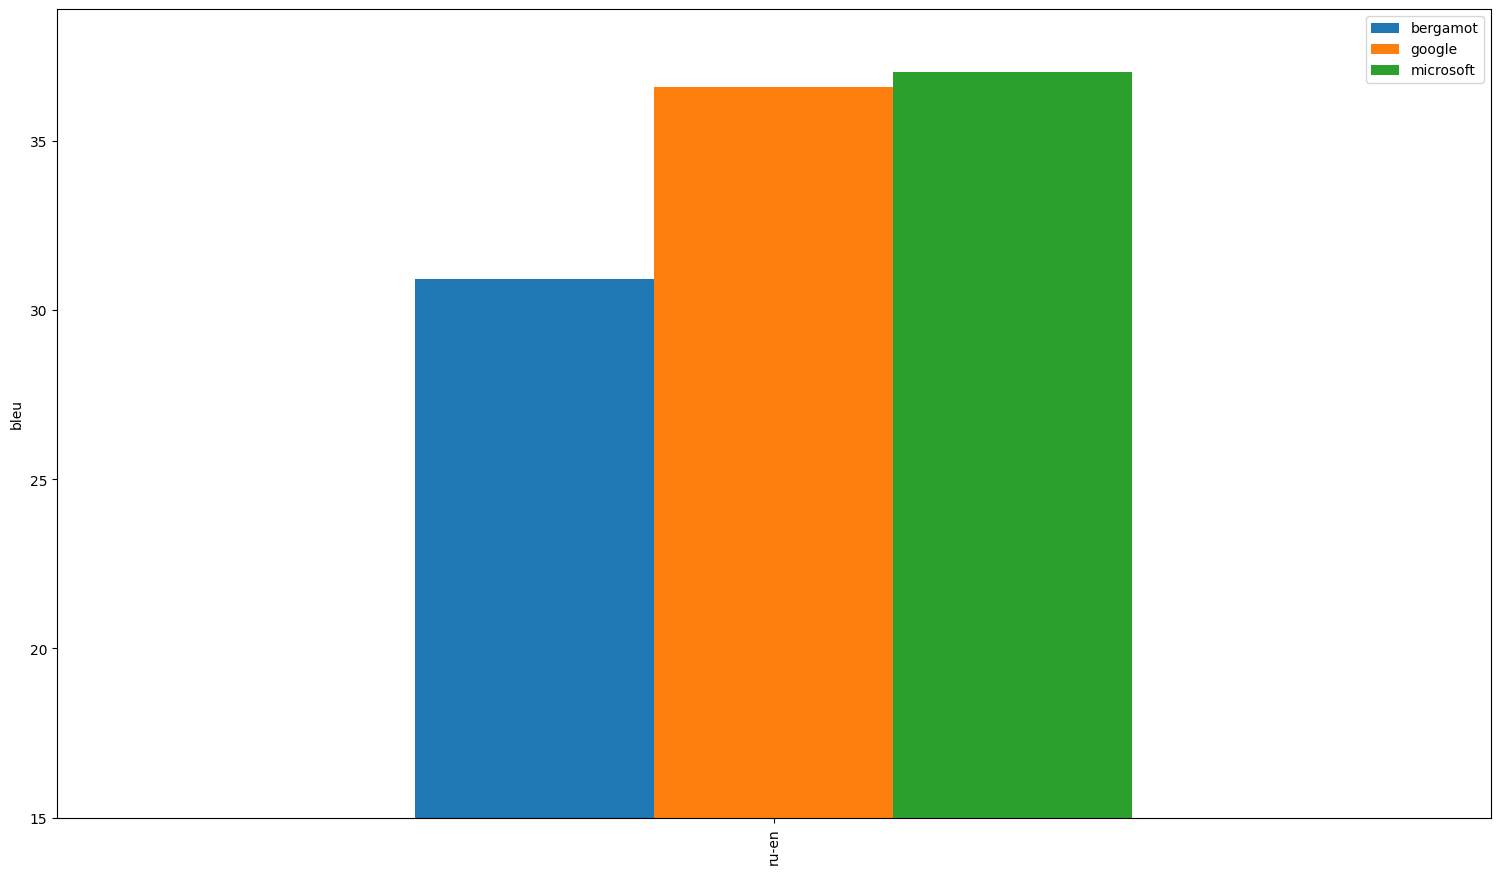
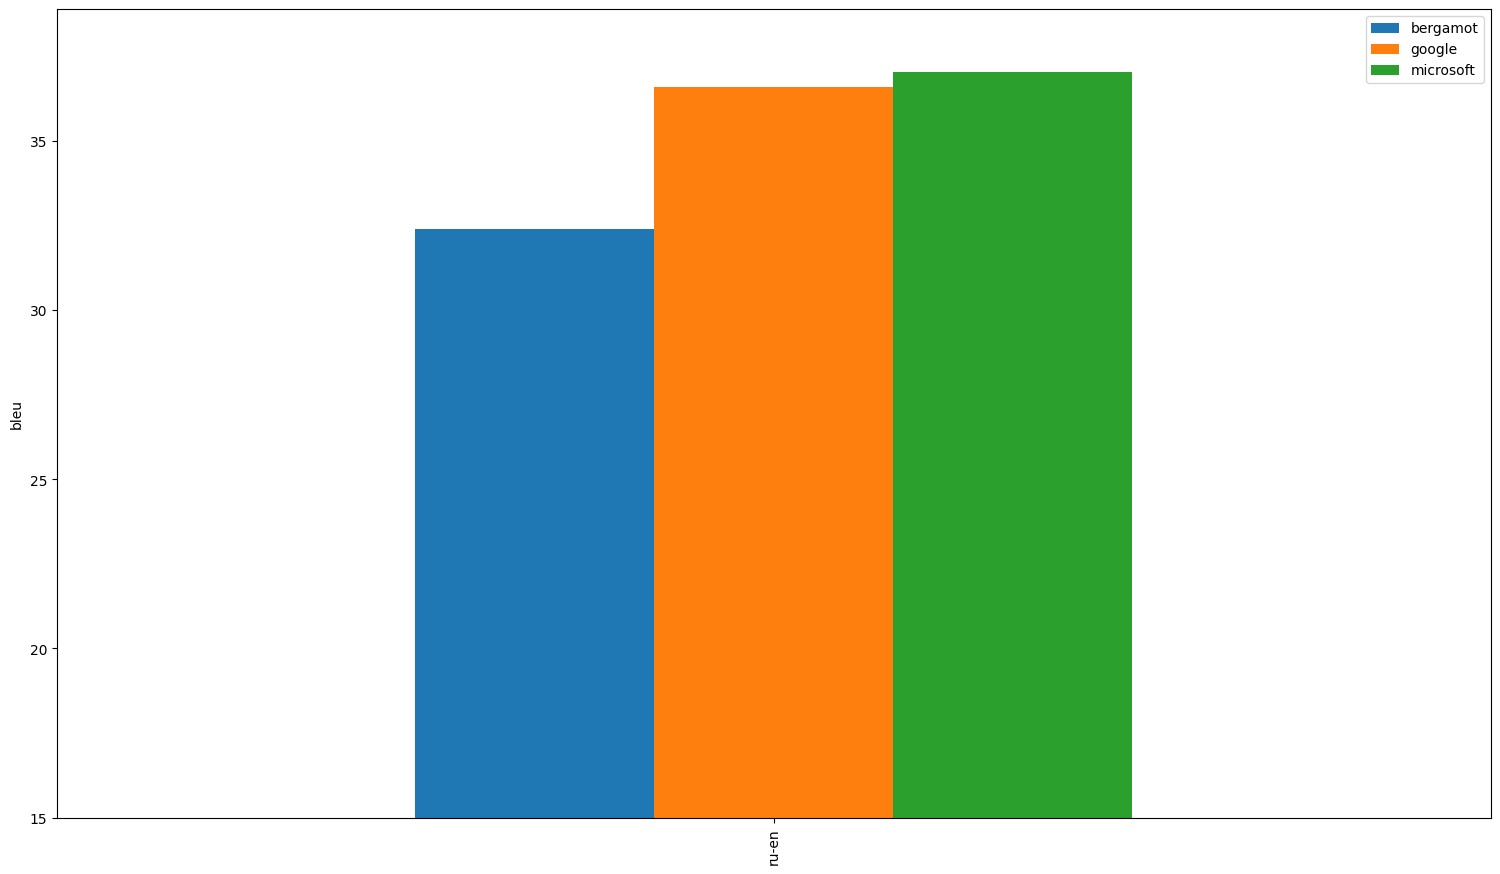
Update evaluation results [skip ci]

Changed region(s): [[0.276, 0.2471, 0.46, 0.3398]]

diff --git a/evaluation/dev/results.md b/evaluation/dev/results.md
@@ -59,9 +59,9 @@ Both absolute and relative differences in BLEU scores between Bergamot and other
 
 | Translator/Dataset | ru-en |
 | --- | --- |
-| bergamot | 30.91 |
-| google | 36.59 (+5.68, +18.37%) |
-| microsoft | 37.03 (+6.12, +19.81%) |
+| bergamot | 32.39 |
+| google | 36.59 (+4.20, +12.97%) |
+| microsoft | 37.03 (+4.64, +14.34%) |
 
 ![Results](img/avg.png)
 
@@ -69,8 +69,8 @@ Both absolute and relative differences in BLEU scores between Bergamot and other
 
 | Translator/Dataset | mtedx_test | wmt19 | wmt17 | wmt14 | wmt15 | wmt16 | wmt13 | wmt18 | wmt20 |
 | --- | --- | --- | --- | --- | --- | --- | --- | --- | --- |
-| bergamot | 23.50 | 37.00 | 33.80 | 34.60 | 30.60 | 29.60 | 26.90 | 28.80 | 33.40 |
-| google | 25.00 (+1.50, +6.38%) | 42.40 (+5.40, +14.59%) | 41.50 (+7.70, +22.78%) | 41.20 (+6.60, +19.08%) | 37.50 (+6.90, +22.55%) | 36.60 (+7.00, +23.65%) | 31.40 (+4.50, +16.73%) | 36.00 (+7.20, +25.00%) | 37.70 (+4.30, +12.87%) |
-| microsoft | 26.10 (+2.60, +11.06%) | 42.60 (+5.60, +15.14%) | 41.60 (+7.80, +23.08%) | 41.70 (+7.10, +20.52%) | 37.80 (+7.20, +23.53%) | 37.60 (+8.00, +27.03%) | 31.20 (+4.30, +15.99%) | 36.90 (+8.10, +28.12%) | 37.80 (+4.40, +13.17%) |
+| bergamot | 23.00 | 37.90 | 35.90 | 35.60 | 32.50 | 32.10 | 28.80 | 31.30 | 34.40 |
+| google | 25.00 (+2.00, +8.70%) | 42.40 (+4.50, +11.87%) | 41.50 (+5.60, +15.60%) | 41.20 (+5.60, +15.73%) | 37.50 (+5.00, +15.38%) | 36.60 (+4.50, +14.02%) | 31.40 (+2.60, +9.03%) | 36.00 (+4.70, +15.02%) | 37.70 (+3.30, +9.59%) |
+| microsoft | 26.10 (+3.10, +13.48%) | 42.60 (+4.70, +12.40%) | 41.60 (+5.70, +15.88%) | 41.70 (+6.10, +17.13%) | 37.80 (+5.30, +16.31%) | 37.60 (+5.50, +17.13%) | 31.20 (+2.40, +8.33%) | 36.90 (+5.60, +17.89%) | 37.80 (+3.40, +9.88%) |
 
 ![Results](img/ru-en.png)
